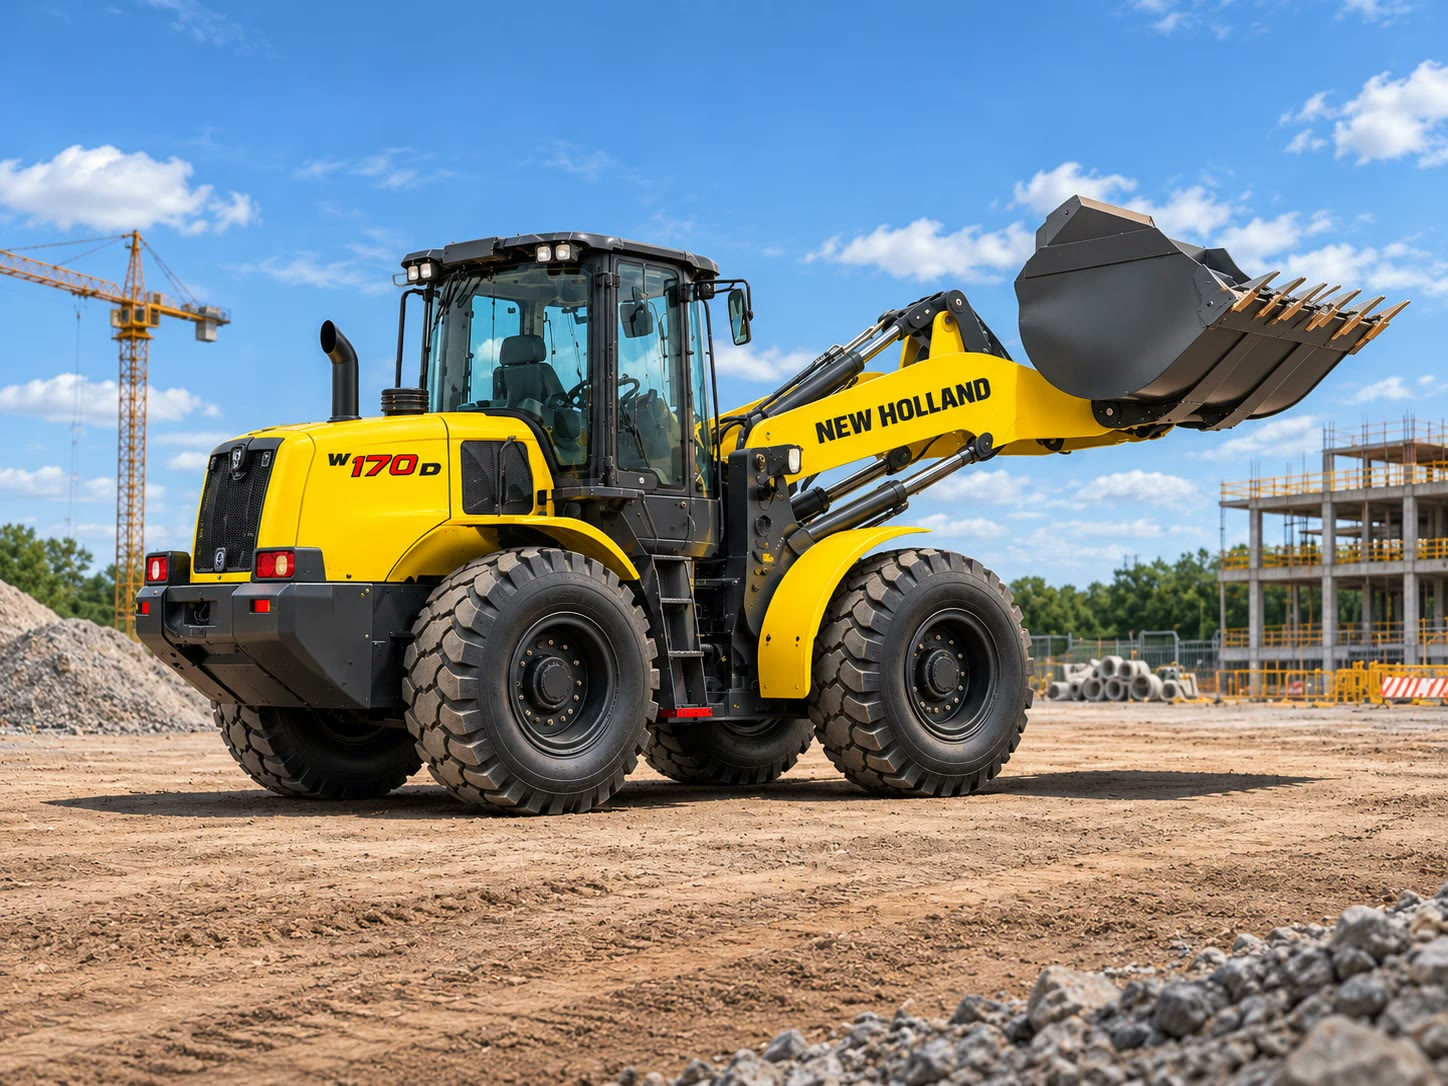
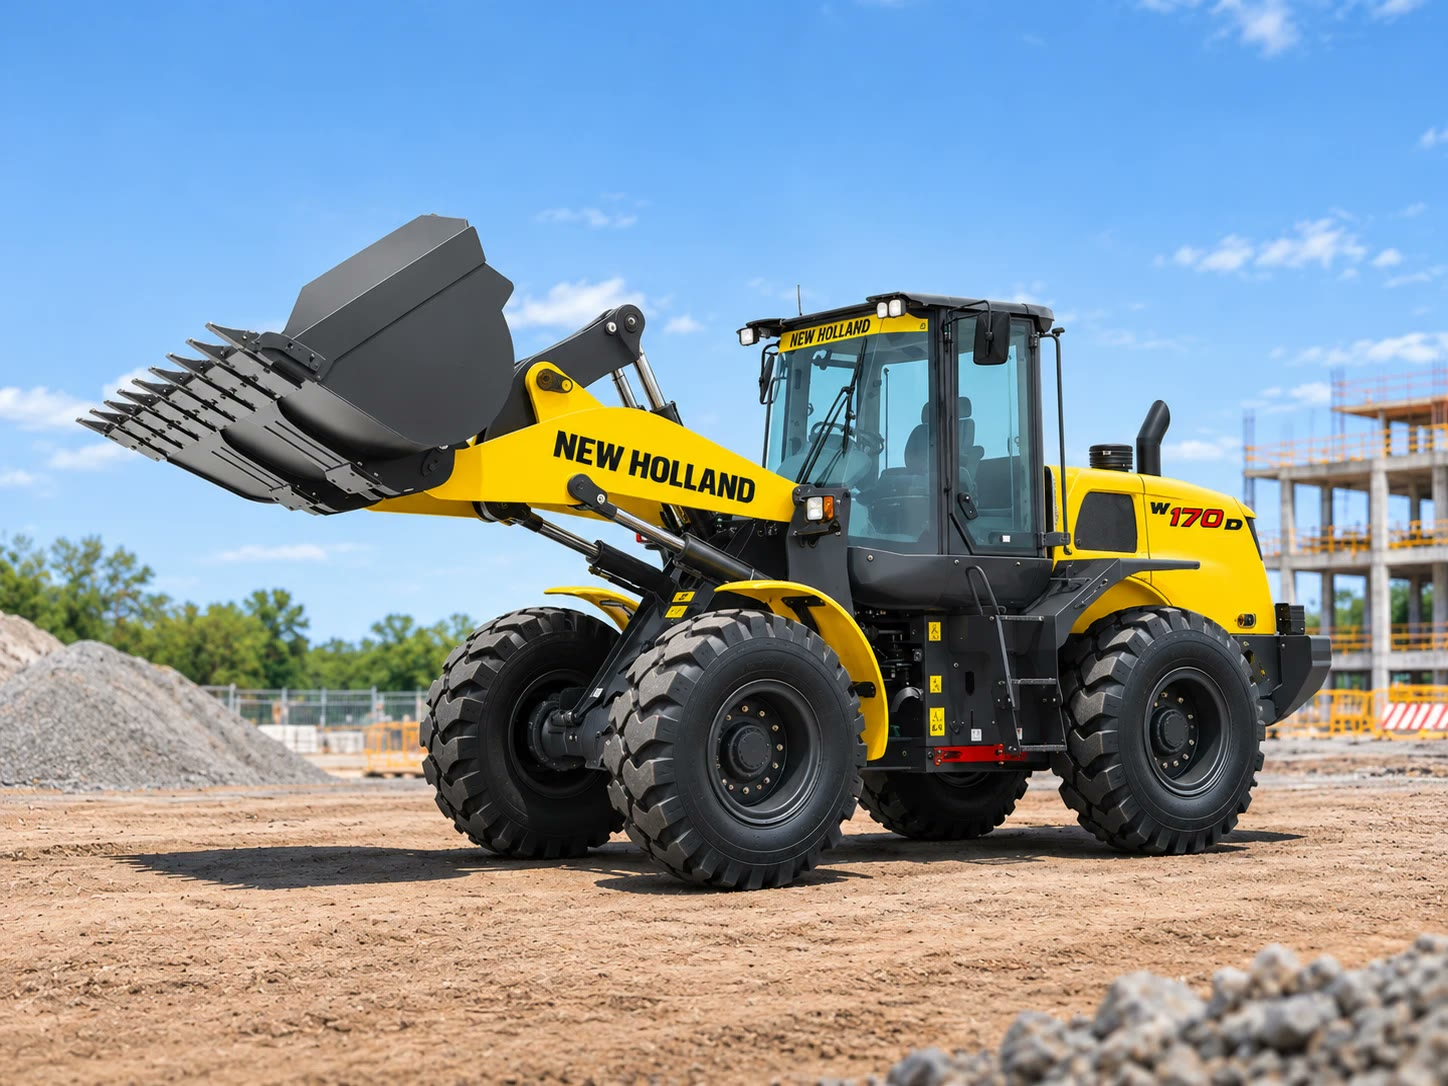
Portada: camioneta eléctrica blanca (día/noche) y nueva cargadora New Holland con el mismo encuadre de día y de noche; 5 portadas

diff --git a/assets/js/main.js b/assets/js/main.js
@@ -102,8 +102,9 @@ document.addEventListener("DOMContentLoaded", () => {
     // pos = encuadre en computador, posM = en celular; posDark/posDarkM si la foto de noche va distinta
     { img: "assets/img/portada/foto-1-dia.jpg", imgDark: "assets/img/portada/foto-1-noche.jpg", pos: "74% 50%", posM: "85.5% 50%", name: "Camioneta en ruta", tag: "Lanzamientos y test drive" },
     { img: "assets/img/portada/foto-3-dia.jpg", imgDark: "assets/img/portada/foto-3-noche.jpg", pos: "50% 50%", posM: "50% 50%", name: "Camioneta en la plaza", tag: "Entregas de vehículo" },
-    { img: "assets/img/portada/foto-2-dia.jpg", imgDark: "assets/img/portada/foto-2-noche.jpg", pos: "50% 62%", posM: "50% 62%", posDark: "58% 50%", posDarkM: "56% 50%", name: "Cargadora en obra", tag: "Maquinaria y flotas" },
-    { img: "assets/img/portada/foto-4-dia.jpg", imgDark: "assets/img/portada/foto-4-noche.jpg", pos: "47% 50%", posM: "47% 50%", posDark: "50% 50%", posDarkM: "50% 50%", name: "Van eléctrica en bodega", tag: "Movilidad eléctrica y flotas" },
+    { img: "assets/img/portada/foto-5-dia.jpg", imgDark: "assets/img/portada/foto-5-noche.jpg", pos: "50% 50%", posM: "50% 50%", name: "Camioneta eléctrica", tag: "Movilidad eléctrica" },
+    { img: "assets/img/portada/foto-2-dia.jpg", imgDark: "assets/img/portada/foto-2-noche.jpg", pos: "50% 55%", posM: "50% 55%", name: "Cargadora en obra", tag: "Maquinaria y flotas" },
+    { img: "assets/img/portada/foto-4-dia.jpg", imgDark: "assets/img/portada/foto-4-noche.jpg", pos: "47% 50%", posM: "47% 50%", posDark: "50% 50%", posDarkM: "50% 50%", name: "Van eléctrica en bodega", tag: "Flotas y logística" },
   ];
   HERO_ART.forEach((b, i) => {
     const s = document.createElement("div");
